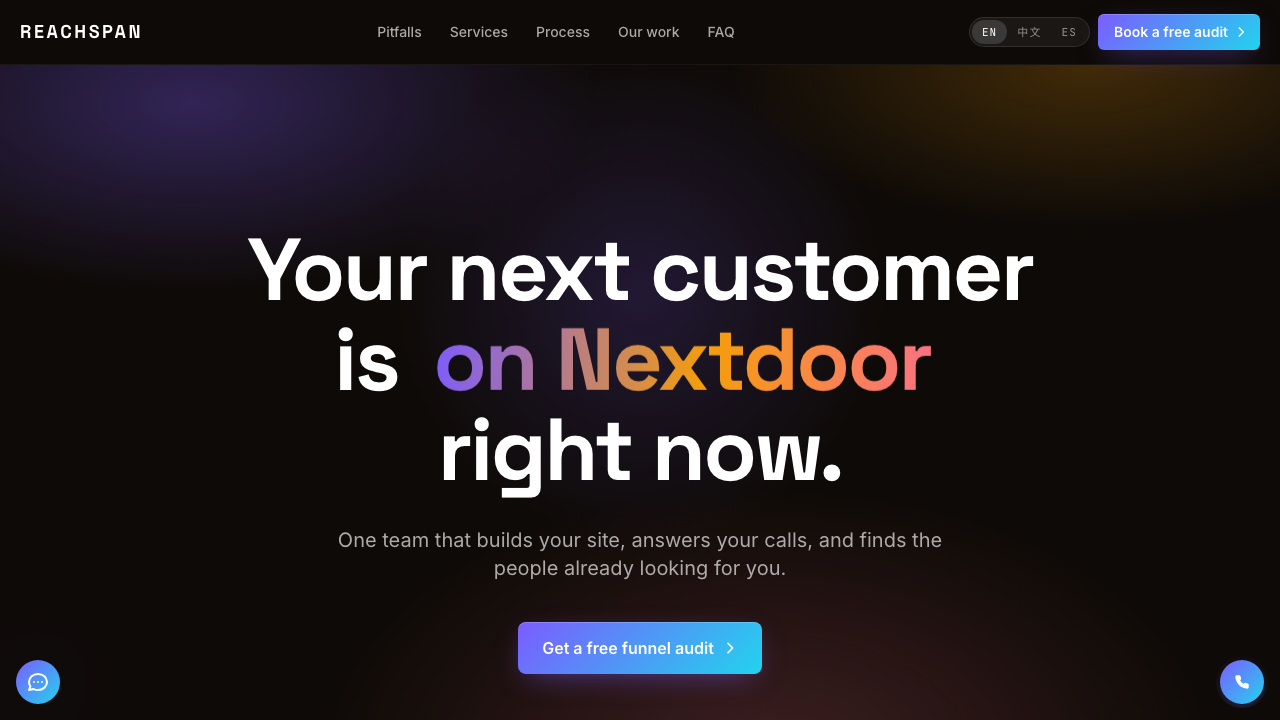
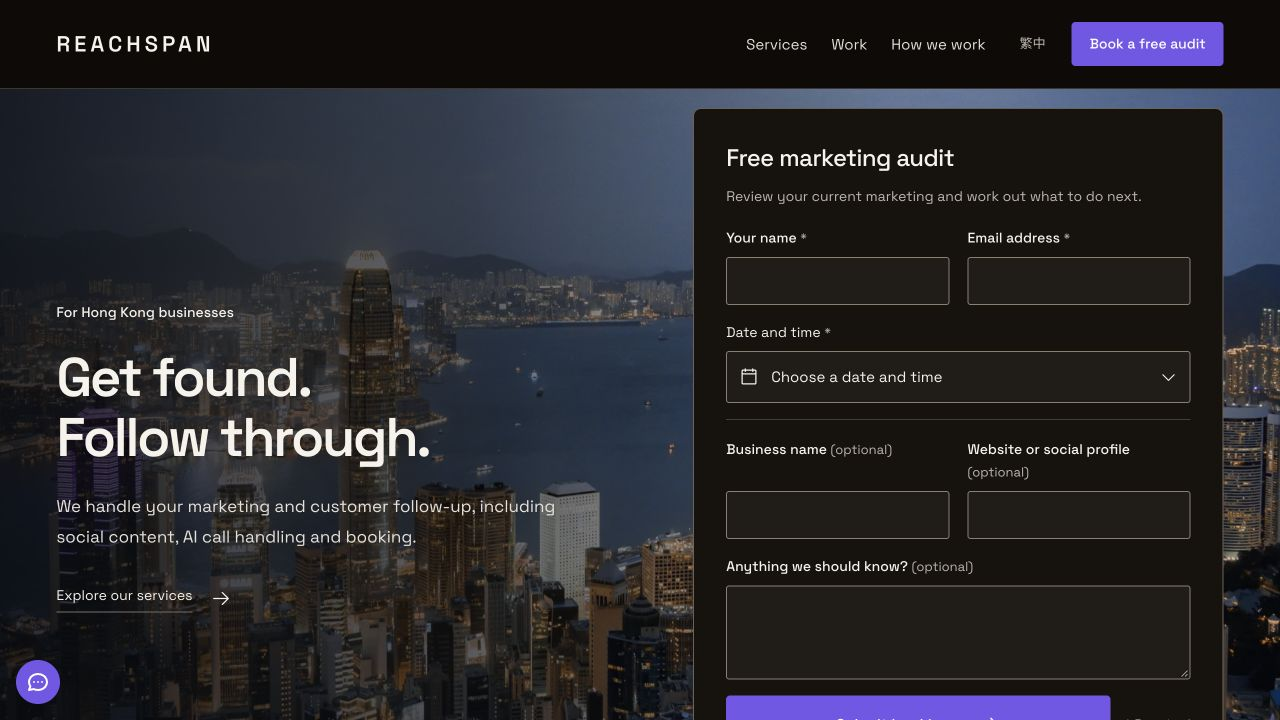
Center exhibition rail and refresh Reachspan without backdrop

diff --git a/src/components/Exhibition.module.css b/src/components/Exhibition.module.css
@@ -162,17 +162,6 @@
   position: relative;
   z-index: 1;
 }
-.figure::before {
-  content: "";
-  position: absolute;
-  right: -5%;
-  top: -12%;
-  width: 49%;
-  aspect-ratio: 1;
-  border-radius: 50%;
-  background: var(--exhibition-yellow);
-  z-index: -1;
-}
 .preview {
   aspect-ratio: 1.9;
   border: 1px solid #101c32;
@@ -235,13 +224,16 @@
 }
 .rail {
   order: 1;
-  width: 77%;
-  max-width: 1450px;
+  width: 76%;
+  max-width: 1440px;
   margin: 46px auto 0;
   display: grid;
-  grid-template-columns: 70px minmax(0, 1fr);
+  grid-template-columns: 70px minmax(0, 1fr) 70px;
   align-items: center;
   column-gap: 24px;
+}
+.rail::after {
+  content: "";
 }
 .previewShell {
   position: relative;
@@ -314,6 +306,12 @@
   cursor: pointer;
   color: var(--ink-2);
   white-space: nowrap;
+}
+.tabs > :first-child {
+  margin-inline-start: auto;
+}
+.tabs > :last-child {
+  margin-inline-end: auto;
 }
 .tabs button[aria-selected="true"] {
   border-bottom-color: var(--ink);
@@ -451,7 +449,7 @@
   }
   .rail {
     width: 85%;
-    grid-template-columns: 70px minmax(0, 1fr);
+    grid-template-columns: 70px minmax(0, 1fr) 70px;
     gap: 20px;
   }
   .tabs {
@@ -561,6 +559,9 @@
     margin: 0 7% 18px;
     order: 0;
   }
+  .rail::after {
+    display: none;
+  }
   .tabs {
     order: 0;
     margin: 0;
@@ -594,11 +595,6 @@
   }
   .figure {
     margin-bottom: 11px;
-  }
-  .figure::before {
-    width: 52%;
-    top: -12%;
-    right: -5%;
   }
   .preview {
     aspect-ratio: 1.61;

diff --git a/src/lib/project-visuals.ts b/src/lib/project-visuals.ts
@@ -25,8 +25,8 @@ export const projectVisuals: Record<string, ProjectVisual> = {
     alt: "Amex Roofing home page with a roof photo and a free inspection call to action",
   },
   reachspan: {
-    src: "/projects/reachspan.png",
-    alt: "ReachSpan landing page headline listing where a local business's next customer is",
+    src: "/projects/reachspan-current-20261013.png",
+    alt: "ReachSpan current English homepage with Get found. Follow through. headline, Hong Kong skyline, and free marketing audit form",
   },
   "throughline-technical-learning-ecosystem": {
     src: "/projects/throughline.png",

diff --git a/design-qa.md b/design-qa.md
@@ -65,3 +65,25 @@ Initial narrow-desktop check at 761px showed cramped copy and a wrapped primary 
 Typography/layout/color/image/content pass: original Public Sans and Newsreader; oversized black scope words with yellow underline; high-contrast editorial rows, native notes, serif About and black/white contact ending; no generic card grid or new imagery. Seven verified public projects/cover assets only. Reachspan uses an ownership-neutral Website & integration label, and ViralSignal was not added. Original professional headline, descriptions, contributions, tags/captions, supporting work and all case-study routes remain server-rendered (`qa/refinement-ssr-checks.json`). Native disclosures retain crawlable text and work without JS. All critical project links are also in the exhibition's server-rendered panels.
 
 Build/type/lint/format/four tests passed; resume regeneration remained byte-identical. Reduced-motion styles were checked: no new continuous/scroll motion, instant rail positioning, project reveal only under no-preference, and global reduce rule covers arrow and disclosure transitions. Native motion emulation and physical touch-device validation remain the same known gaps. Pointer drag remains verified; no backend actions added.
+
+## Pending rail alignment correction
+
+final result: blocked
+
+Exact source `../references/portfolio-alignment-feedback.png` was materialized and opened. It is a 1430×127 crop of the project rail; the full viewport is not supplied. The visible underline runs far beyond the last label while all seven labels are packed toward its left. Source inspection confirms that the rail container itself has symmetric margins, but a flex-start tab row and counter-only left track cause the apparent imbalance. The slight 77%/1450px rail versus 76%/1440px stage mismatch also existed.
+
+Local CSS now matches rail/stage width, reserves symmetric edge tracks, and centers fitting labels through automatic outer margins. Smaller overflowing rails remain scrollable with zero auto margins. Mobile removes the empty balancing track and retains its existing stacking. All seven projects, side arrows and editorial asymmetry remain. Types/lint/format/four tests pass. Browser capture, measured alignment and interaction recheck are intentionally pending: another task may own the Mac browser. No browser acquisition or preview publication was performed for this correction yet.
+
+### Pending circle removal
+
+Both desktop/mobile decorative circle pseudo-element rules were removed entirely, with no replacement. Browser validation and combined separate-preview publication remain blocked on the coordinated Mac browser slot. The screenshot layout and side-arrow positions do not depend on the removed absolute-positioned circle.
+
+## Combined alignment, circle removal and Reachspan refresh — verified
+
+final result: passed
+
+Supersedes the pending blocked entries above. Exact alignment/yellow screenshots were inspected earlier. Captured and inspected current Reachspan public English UI in Chrome at 1280×720 (qa/Reachspan-Current-UI-20261013.jpg). It shows the new Hong Kong skyline, Get found / Follow through headline and empty audit form. No bookings or project actions were performed.
+
+Inspected combined desktop/mobile browser captures: qa/Aligned-No-Circle-Desktop.jpg (1487×1058) and qa/Aligned-No-Circle-Mobile.jpg (426×922), density 1. Fitting labels center at the viewport midpoint to <0.01px; matching 1430px and 1693px checks also exact. Original editorial asymmetry remains. No actionable P0/P1/P2 issue. Overflowing rails at 981/426/320px remain scrollable; document width matches viewport; Home/End and arrow wrapping/menu dismissal pass. Decorative circle pseudo-element returns content none at every checked width, with no substitute. Current Reachspan image visibly verified both in showcase and /projects/reachspan. The archive consumes that same visual map. Empty production-mode console error/warning records. Existing reduced-motion and physical-touch test limitations unchanged.
+
+Actual image files refreshed: public/projects/reachspan.png and new public/projects/reachspan-current-20261013.png. Shared source map points to dated asset to prevent old optimizer cache reuse. Other project images/role claims/public routes unchanged. Current UI messaging is broader and Hong Kong-focused; existing portfolio contributions are retained as historical work scope, without asserting ownership or adding ViralSignal.

diff --git a/HANDOVER.md b/HANDOVER.md
@@ -195,3 +195,17 @@ The refined layout uses off-white, black and yellow, with the existing Public Sa
 Expanded the exhibition to seven existing public projects: SoloMock, Gasolytics, Amex Roofing, How's My Job Fit?, SoloYap, Throughline, Reachspan. Reachspan is labeled Website & integration; ViralSignal is not added or claimed as personal work. Large transparent arrows sit at the desktop sides (up to 132×180 targets), and along passive screenshot edges on mobile (56×120 targets); bottom arrows removed. A scrolling rail keeps the selected project in view and uses a dynamic 07 count. Keyboard arrow focus survives switching and wraparound. Tablet stacking starts at 980px so text and controls stay comfortable.
 
 The lower section now uses an oversized Interface / Backend / After launch editorial opening, a professional introduction and availability ledger, native expandable engineering notes, serif About heading, biographical ledger, and a black/white contact ending. Existing facts, original summaries/contributions and routes remain in server-rendered markup. Details and links work without JavaScript. Reduced motion retains static content and removes motion via existing global rules. Update the separate preview only; production domains remain unchanged.
+
+### Rail alignment correction — awaiting browser QA
+
+User supplied a crop of the seven-project rail showing a large empty region to the right. The labels used flex-start inside a centered but oversized two-column rail: a counter occupied only the left side, and the remaining tab track did not center its contents. Corrected the rail to match the stage's 76%/1440px width, reserve equal 70px edge tracks for visual balance, and use auto outer margins to center the seven labels when they fit. Overflow still falls back to start-aligned scrolling, and the balancing spacer is removed in the stacked mobile layout. No stage/editorial asymmetry, public content, project inventory, route, or control behavior was changed. Browser QA is pending coordination with the Data Guide task; do not publish before that check.
+
+### Decorative circle removal — pending combined preview update
+
+Removed both desktop and mobile `.figure::before` circle rules at the user’s explicit request. No substitute decoration was added. The screenshot container, side controls, content and rail structure are unchanged. Other yellow link/type accents remain outside this specifically requested removal. Include with the rail alignment correction and current Reachspan UI capture after coordinated browser QA.
+
+### Combined update verified — October 13
+
+Mac browser was confirmed responsive after unlock. Captured the public English Reachspan page at https://www.reachspan.ai/en.html at 1280×720, without entering or submitting anything. Refreshed public/projects/reachspan.png and added public/projects/reachspan-current-20261013.png; the shared visual map uses the dated path to avoid cached old screenshots. Showcase, archive and project page share this asset. Alt text and exhibition caption now identify the current English homepage. Existing contribution/ownership copy remains unchanged. Current public messaging targets Hong Kong and reads Get found / Follow through; portfolio copy remains a narrower description of Tony's website/scheduling work.
+
+Chrome QA confirms fitting rail labels are centered exactly (715 at 1430px, 743.496 at 1487px, 846.5 at 1693px). Narrow rails scroll, no page overflow at 981/426/320px. Circle computed content is none at all sizes. Home/End, seven-to-one arrow wrapping, mobile menu/Escape and Reachspan project image were exercised. Console errors/warnings empty. Only separate preview publication is authorized.

diff --git a/docs/project-evidence.md b/docs/project-evidence.md
@@ -86,3 +86,7 @@ All product checks used a clean environment with a preload that throws on unexpe
 The Gasolytics harness imported the real `src/lib/aaa.ts`, then changed its working directory to a temporary fixture directory containing `data/history.json`. The synthetic snapshot had CA/NV values and a declared `9/1/26` source date. After the first read, invalid JSON replaced the input. The warm read reused the cached object; advancing the clock by 31 minutes exercised stale fallback. A separate process with no warm cache exercised the cold error. No synthetic prices appear in the public screenshots.
 
 Temporary capture harnesses and check output were stored in `/private/tmp/personal-site-evidence/` during implementation. This register and the checked-in screenshots are the durable evidence summary. Future product changes require renewed verification before strengthening the claims.
+
+## Reachspan visual refresh — October 13, 2026 UTC
+
+Public English page https://www.reachspan.ai/en.html captured read-only in Chrome at 1280×720 after confirming the existing portfolio link https://reachspan.ai redirects to https://www.reachspan.ai/. New shared capture shows Get found / Follow through, Hong Kong skyline and the empty marketing-audit form. No form inputs, bookings, chat submissions or integrations were exercised. Replaced the shared portfolio cover and added a dated filename for cache freshness. Showcase, archive and /projects/reachspan use the same visual. Contribution and ownership wording remain unchanged; this capture proves current public UI, not current provider behavior or commercial outcomes.
